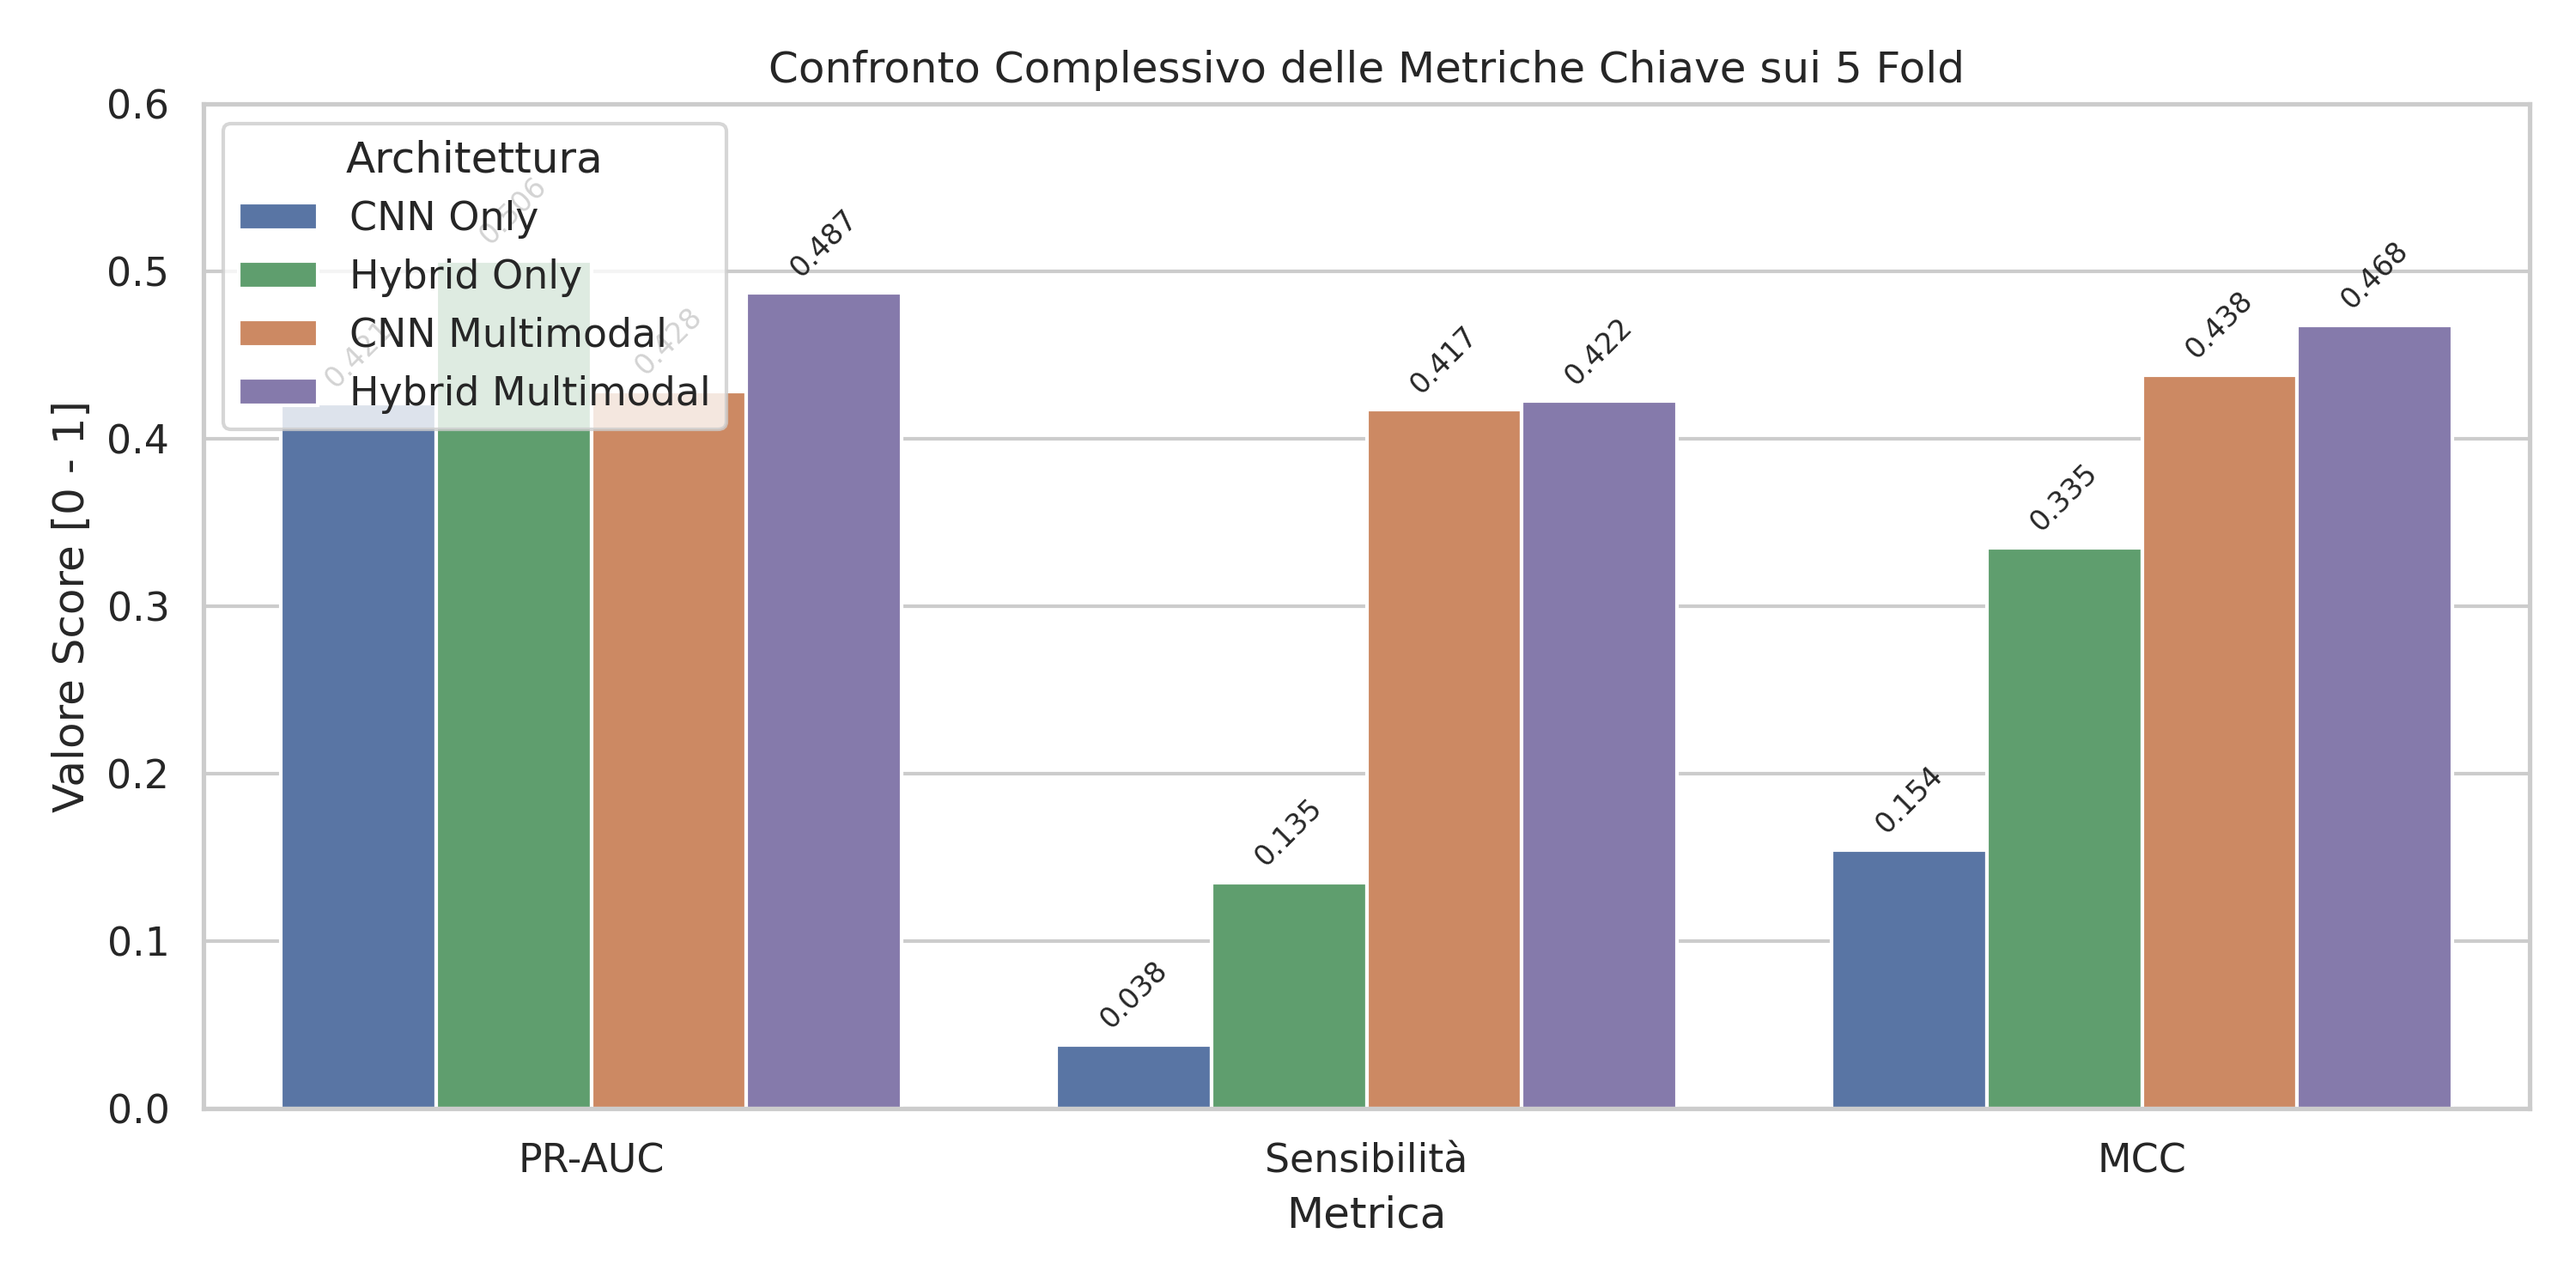
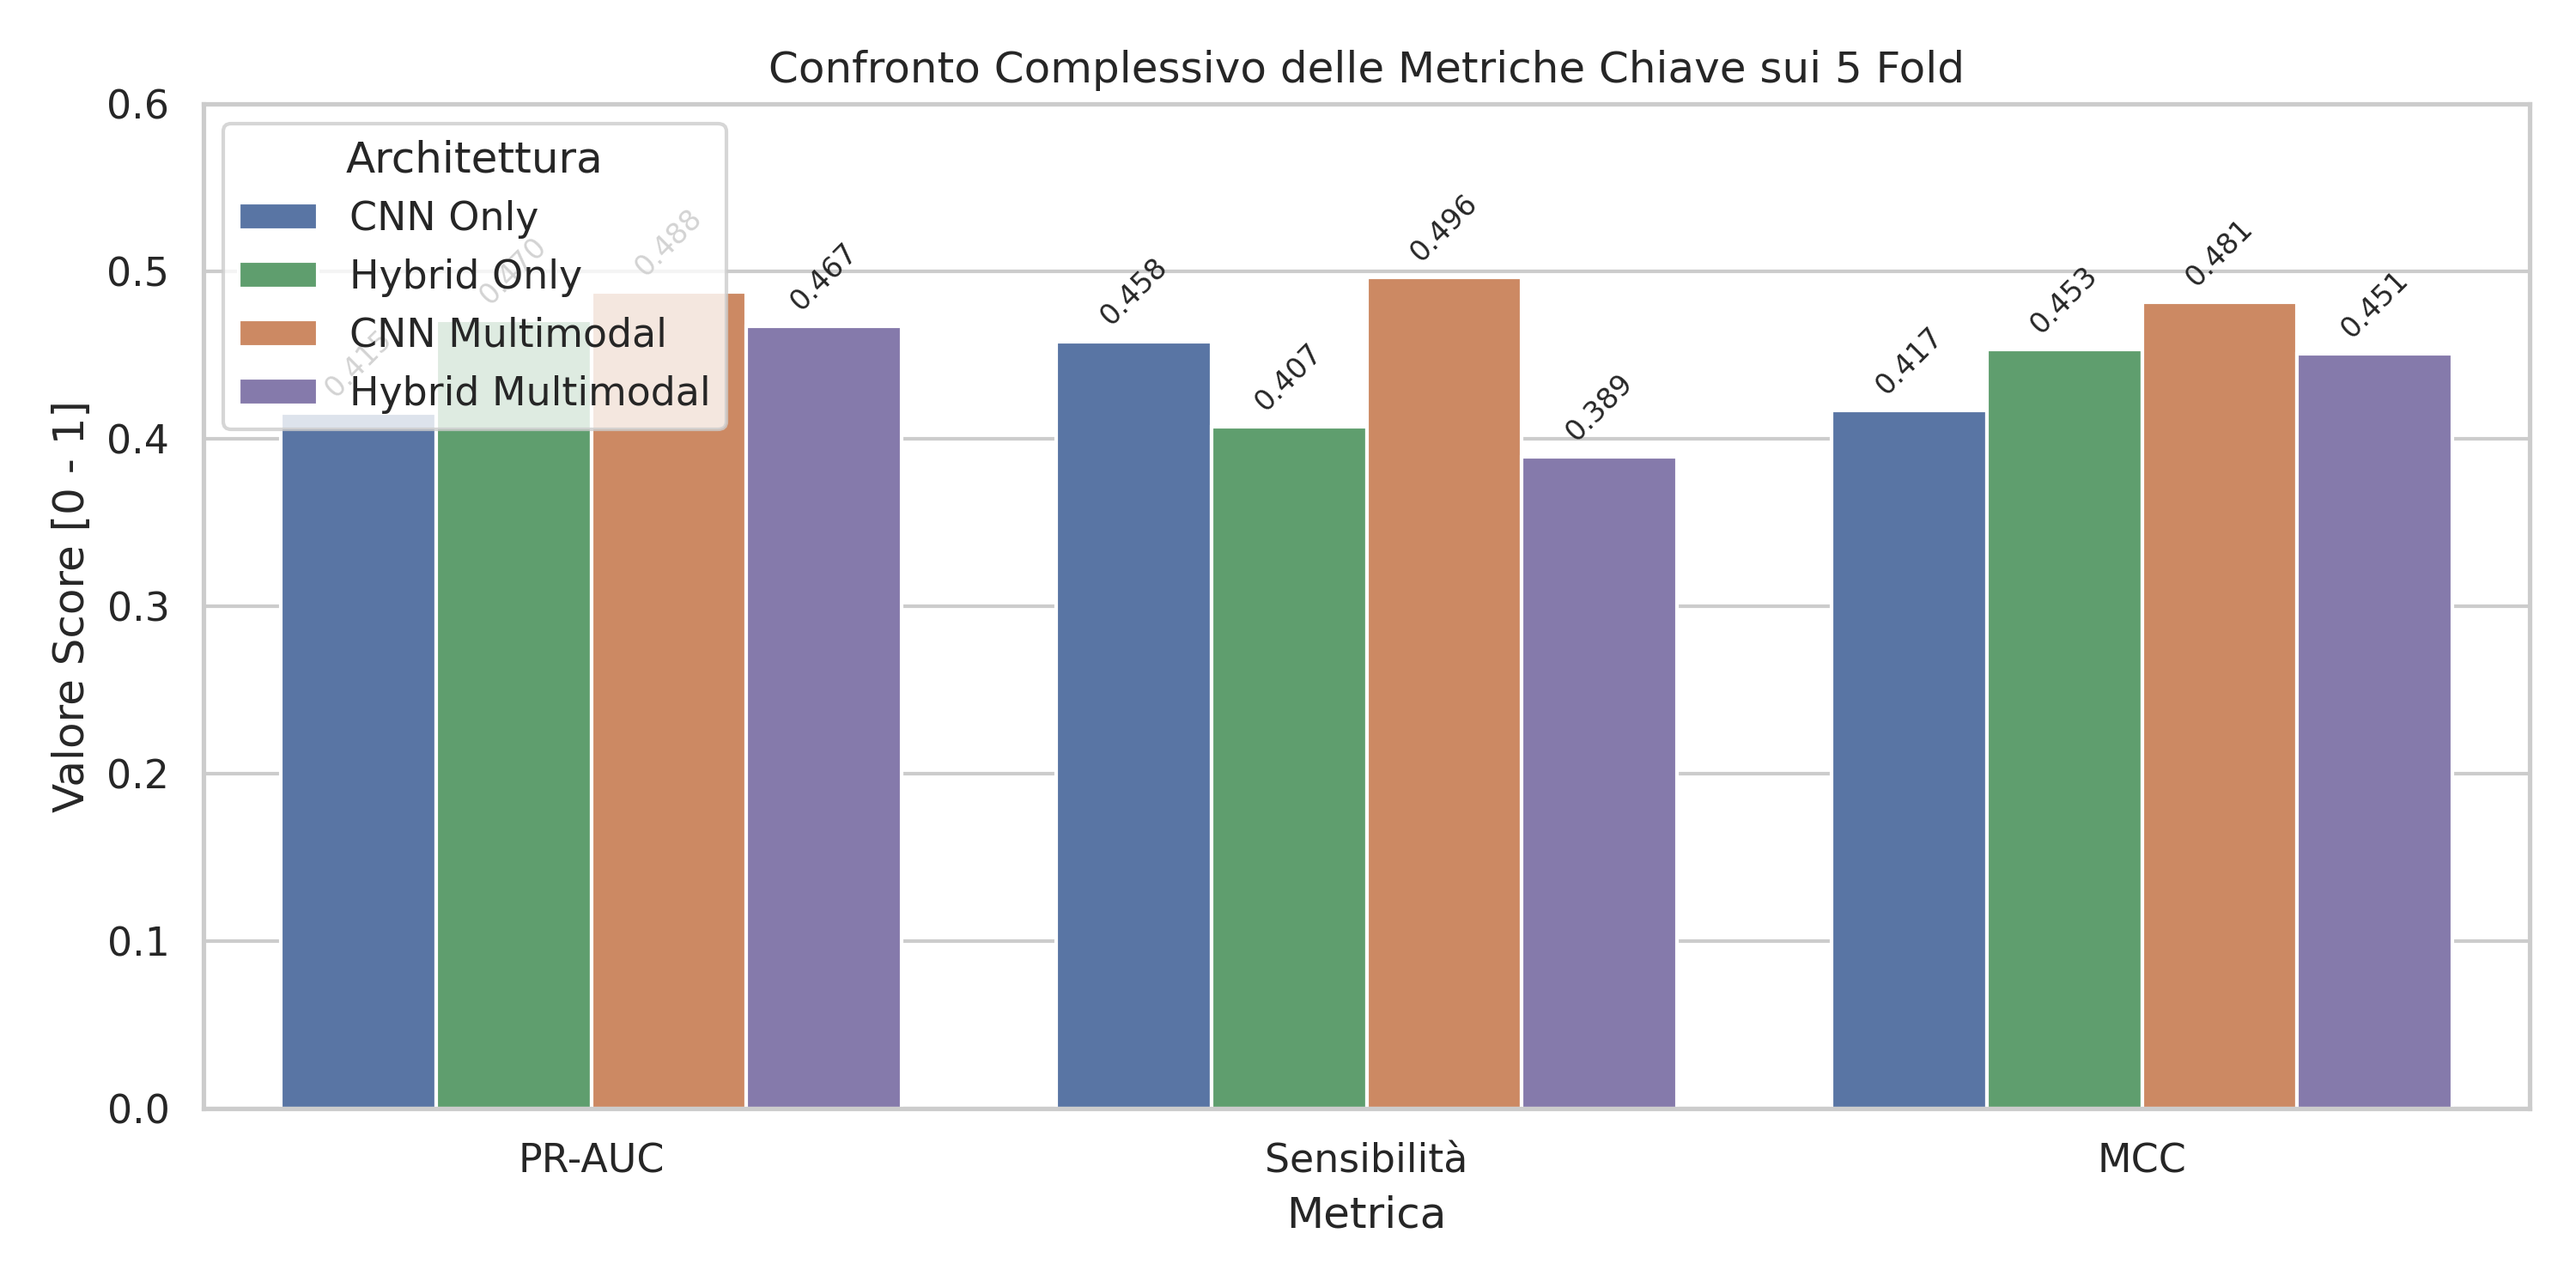
aggiunti plot comparativi

diff --git a/plot_comparisons.py b/plot_comparisons.py
@@ -132,7 +132,6 @@ print(f"[OK] Salvato: {plot2_path}")
 # -------------------------------------------------------------
 # GRAFICO 3: Boxplot delle Prestazioni sui 5 Fold (Migliori Valori)
 # -------------------------------------------------------------
-# Estraiamo la miglior epoca per ciascun fold (criterio: massima PR-AUC)
 best_per_fold = (
     df_all.sort_values(by=["Model", "fold", "pr_auc"], ascending=False)
     .groupby(["Model", "fold"])
@@ -211,7 +210,6 @@ print(f"[OK] Salvato: {plot3_path}")
 # -------------------------------------------------------------
 # GRAFICO 4: Sintesi Finale a Barre delle Medie Globali (Inclusi MCC)
 # -------------------------------------------------------------
-# Riepilogo finale aggregato dei log
 summary_data = {
     "Modello": [
         "CNN Only",
@@ -219,9 +217,9 @@ summary_data = {
         "CNN Multimodal",
         "Hybrid Multimodal",
     ],
-    "PR-AUC": [0.4208, 0.5062, 0.4282, 0.4869],
-    "Sensibilità": [0.0380, 0.1348, 0.4174, 0.4224],
-    "MCC": [0.1545, 0.3350, 0.4381, 0.4677],
+    "PR-AUC": [0.4151, 0.4705, 0.4876, 0.4671],
+    "Sensibilità": [0.4581, 0.4070, 0.4964, 0.3892],
+    "MCC": [0.4168, 0.4531, 0.4814, 0.4506],
 }
 df_summary = pd.DataFrame(summary_data)
 df_summary_melted = pd.melt(
